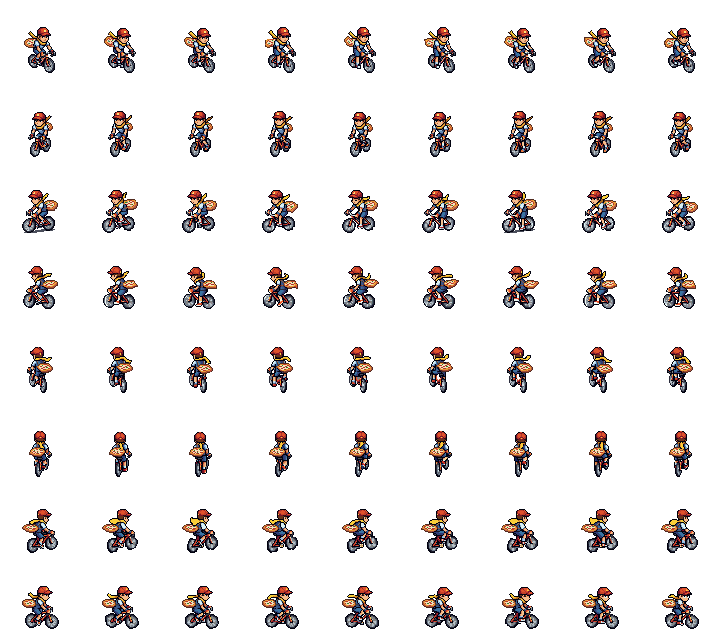
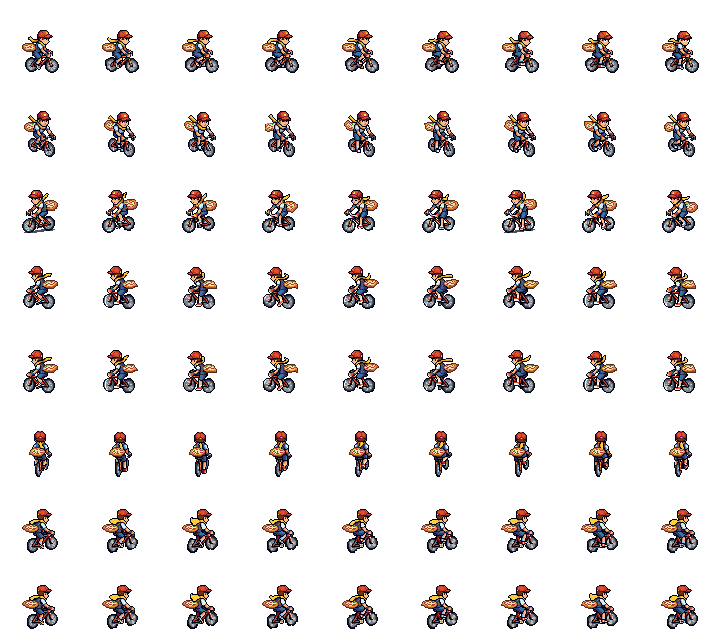
Rookie: pick the closest pose for each sheet row
Rookie's 8 PixelLab poses sit between the game's headings, so no rotation of
the names lines them all up: two of the four road diagonals were ~40 degrees
off. tools/import_rider.gd now takes rows=<dir>,... (one export direction per
row, repeats allowed) instead of down=; Rookie's rows favour the road
diagonals, with the straight up/down/left/right rows up to ~22 degrees off.

diff --git a/README.md b/README.md
@@ -170,4 +170,4 @@ scripts/iso.gd, bike_draw.gd   drawing helpers
 bridge/trainer_bridge.py    BLE <-> UDP bridge (Python, bleak)
 ```
 
-Everything is drawn procedurally, but pixel art can replace it piece by piece: whatever has no art keeps its procedural drawing (see `scripts/sprites.gd`). Art is read from `art/` (or the game's user data folder under `art/`, for testing without rebuilding). So far riders can use art: `art/bike.png` is a sheet of 64x64 frames, 4 pedal frames across and 8 directions down (down-right, down, down-left, left, up-left, up, up-right, right), with the wheels touching the ground 12 px above the bottom centre of each frame. Optional greyscale `bike_jersey.png` and `bike_frame.png` layers are tinted per rider, `bike_box.png` shows only while carrying a pizza, and `bike_<rider>.png` (e.g. `bike_dave.png`) gives one rider their own sheet. Instead of the box layer a rider can have whole looks: `bike_<rider>_boxed.png` (riding around town with the delivery box), `bike_<rider>_pizza.png` (carrying a pizza) and `bike_<rider>.png` (no box, for races); sheets can have any number of pedal frames, and a single column is a still. Your rider uses these (`art/bike_you_pizza.png` and `art/bike_you.png`, the PixelLab character "Rookie"), built from its export with `godot --headless -s tools/import_rider.gd -- <export dir> down=south-west Idle=bike_you_pizza same_thing_but_witho=bike_you` (`down=` names the export direction that faces straight down the screen). `PIZZA_DEBUG=bake_bike [PIZZA_WHO=Dave]` draws the current procedural bike in exactly this format to `art/templates/`, as a template to paint over. Dev helpers: `PIZZA_DEBUG=city|race|shop|er|flow|rails|roads|overview godot --path .`; `PIZZA_DEBUG=shot PIZZA_OUT=dir [PIZZA_AT=x,y;...|junctions|shops] [PIZZA_CARRY=1]` saves screenshots (optionally carrying a pizza); `PIZZA_DEBUG=race_shot [PIZZA_COURSE=0|1] PIZZA_OUT=dir` saves race screenshots at the first jump, log, creek and wildlife; `PIZZA_DEBUG=powerups PIZZA_OUT=dir` tries every power-up in town and in a race and saves a screenshot of each; `PIZZA_DEBUG=readme godot --path .` regenerates the README screenshots in `docs/`; `PIZZA_SEASON=spring|summer|fall|winter` forces a season; `PIZZA_DEBUG=seasons [PIZZA_OUT=dir]` saves the title view and each kind of seasonal scenery in every season; `PIZZA_DEBUG=ride [PIZZA_OUT=dir]` rides for a few seconds and writes the Strava TCX file and screenshots.
+Everything is drawn procedurally, but pixel art can replace it piece by piece: whatever has no art keeps its procedural drawing (see `scripts/sprites.gd`). Art is read from `art/` (or the game's user data folder under `art/`, for testing without rebuilding). So far riders can use art: `art/bike.png` is a sheet of 64x64 frames, 4 pedal frames across and 8 directions down (down-right, down, down-left, left, up-left, up, up-right, right), with the wheels touching the ground 12 px above the bottom centre of each frame. Optional greyscale `bike_jersey.png` and `bike_frame.png` layers are tinted per rider, `bike_box.png` shows only while carrying a pizza, and `bike_<rider>.png` (e.g. `bike_dave.png`) gives one rider their own sheet. Instead of the box layer a rider can have whole looks: `bike_<rider>_boxed.png` (riding around town with the delivery box), `bike_<rider>_pizza.png` (carrying a pizza) and `bike_<rider>.png` (no box, for races); sheets can have any number of pedal frames, and a single column is a still. Your rider uses these (`art/bike_you_pizza.png` and `art/bike_you.png`, the PixelLab character "Rookie"), built from its export with `godot --headless -s tools/import_rider.gd -- <export dir> rows=south-east,south,west,north-west,north-west,north-east,east,east Idle=bike_you_pizza same_thing_but_witho=bike_you` (`rows=` picks the export pose for each sheet row; see the tool). `PIZZA_DEBUG=bake_bike [PIZZA_WHO=Dave]` draws the current procedural bike in exactly this format to `art/templates/`, as a template to paint over. Dev helpers: `PIZZA_DEBUG=city|race|shop|er|flow|rails|roads|overview godot --path .`; `PIZZA_DEBUG=shot PIZZA_OUT=dir [PIZZA_AT=x,y;...|junctions|shops] [PIZZA_CARRY=1]` saves screenshots (optionally carrying a pizza); `PIZZA_DEBUG=race_shot [PIZZA_COURSE=0|1] PIZZA_OUT=dir` saves race screenshots at the first jump, log, creek and wildlife; `PIZZA_DEBUG=powerups PIZZA_OUT=dir` tries every power-up in town and in a race and saves a screenshot of each; `PIZZA_DEBUG=readme godot --path .` regenerates the README screenshots in `docs/`; `PIZZA_SEASON=spring|summer|fall|winter` forces a season; `PIZZA_DEBUG=seasons [PIZZA_OUT=dir]` saves the title view and each kind of seasonal scenery in every season; `PIZZA_DEBUG=ride [PIZZA_OUT=dir]` rides for a few seconds and writes the Strava TCX file and screenshots.
